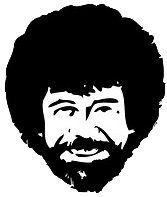
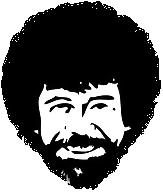
improve styling

diff --git a/src/App.vue b/src/App.vue
@@ -2,7 +2,11 @@
   <div id="app">
     <div class="columns header">
       <div class="column is-narrow">
-        <div id="bob-ross"><img src="./assets/bob-ross.png"></div>
+        <div id="bob-ross">
+          <router-link to="/paintings">
+            <img src="./assets/bob-ross.png">
+          </router-link>
+        </div>
       </div>
       <div class="column has-text-centered">
         <router-link to="/paintings">
@@ -70,17 +74,11 @@ export default {
     text-decoration: underline;
   }
   #bob-ross {
-    width: 4em;
+    width: 3.33em;
     position: absolute;
-    margin: .33em .2em 3em .5em;
-    opacity: .9;
+    margin: .1em .2em 3em .5em;
+    opacity: 9;
   }
-  /*#bob-ross + a {
-    text-align: center;
-    margin-left: 3em;
-    font-size: 2em;
-    font-family: 'Permanent Marker', cursive;
-  }*/
   #bob-ross img {
     width: 100%;
     max-height: unset;

diff --git a/src/components/Painting.vue b/src/components/Painting.vue
@@ -9,8 +9,8 @@
     <div class="card-content">
       <div class="media">
         <div class="media-content">
-          <p class="title is-4">{{title}}</p>
-          <p class="subtitle is-6 episode">{{episode | seasonAndEpisode}}</p>
+          <div class="title is-4">{{title}}</div>
+          <div class="subtitle is-6 episode">{{episode | seasonAndEpisode}}</div>
         </div>
       </div>
       <div class="content">
@@ -69,14 +69,15 @@ export default {
     color: #222;
     font-size: .8em;
   }
-/*  .tag:hover {
-    background-color: #ddd;
-  }*/
+  .title {
+    margin-bottom: 1.33em;
+  }
   .episode {
     text-transform: uppercase;
     font-size: .95em;
     color: #ccc;
     font-weight: 400;
+    margin-bottom: .33em;
   }
   .media-content {
     overflow: visible;

diff --git a/src/components/Paintings.vue b/src/components/Paintings.vue
@@ -195,15 +195,22 @@ export default {
     font-size: 1.1em;
   }
   .filters {
-    margin: 7em 0 0;
+    margin: 5em 0 0;
     padding: 0 0 1em;
+    /*background: red;*/
   }
   .filter-group {
-    margin-bottom: 1em;
+    margin-bottom: 2.33em;
+    height: 20em;
+    overflow: scroll;
   }
   .filter-group-label {
     font-weight: 900;
     font-size: 1.33em;
+    font-family: 'Permanent Marker', cursive;
+    border-bottom: 2px solid #555;
+    padding-bottom: .5em;
+    margin-bottom: .33em;
   }
   .filter-group-filters {
     padding: .33em .5em;
